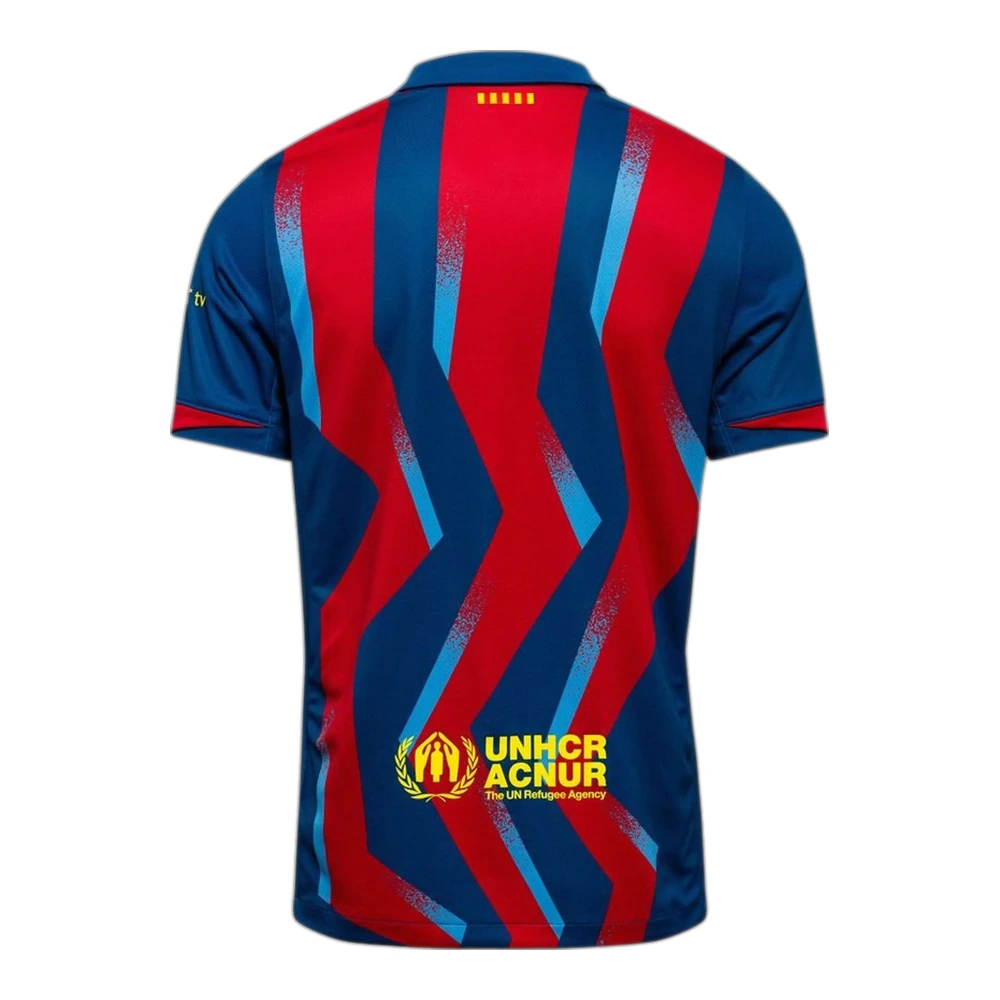
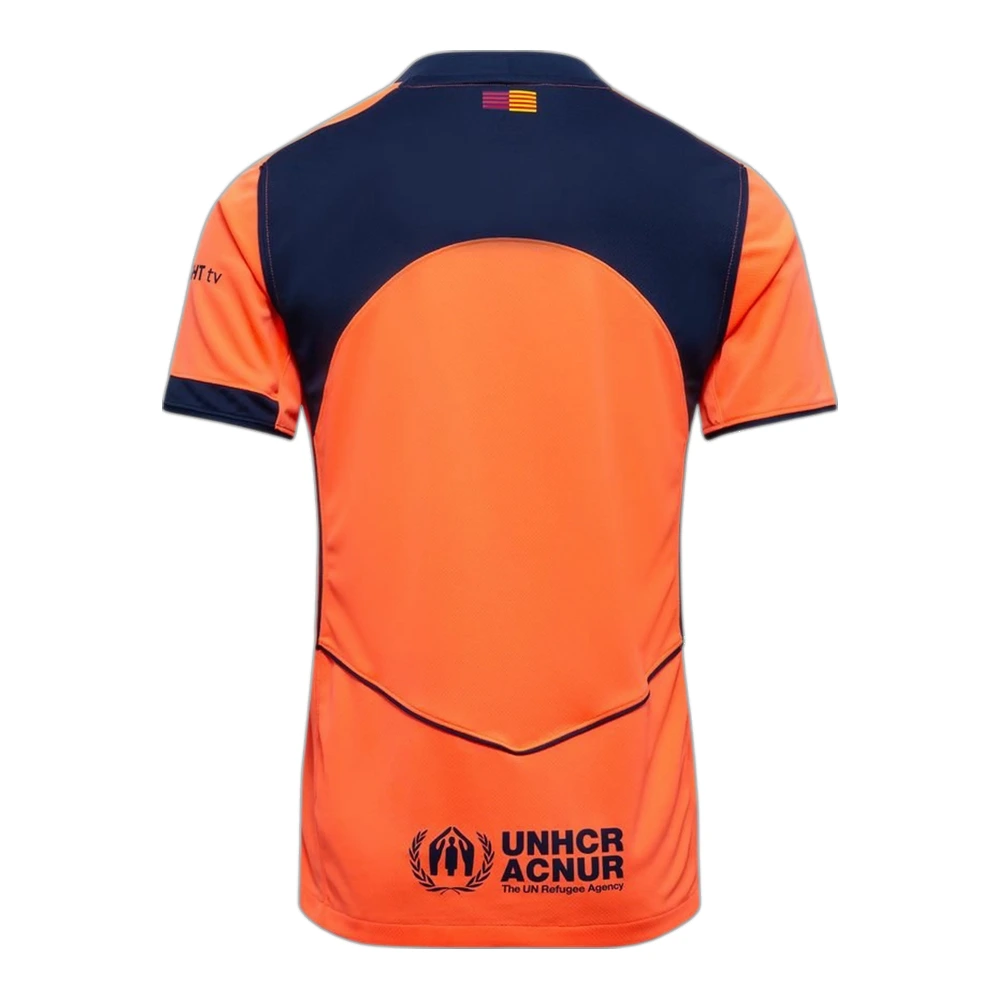
Inverse Third et Fourth du FC Barcelone 2025-26 : le orange est le Third

diff --git a/index.html b/index.html
@@ -2036,8 +2036,8 @@ const products = [
   { id:867, club:'Benfica', name:'Maillot Extérieur', season:'2026-27', league:'Liga Portugal', type:'standard', emoji:'👕', mainColor:'#FFFFFF', accentColor:'#E20B12', flocageColor:'#E20B12', frontImage:'images/benfica-ext-2627-1.webp', carouselImages:['images/benfica-ext-2627-1.webp','images/benfica-ext-2627-2.webp'] },
   { id:868, club:'Crystal Palace', name:'Maillot Extérieur', season:'2026-27', league:'Premier League', type:'standard', emoji:'👕', mainColor:'#111111', accentColor:'#1B458F', flocageColor:'#FFFFFF', frontImage:'images/crystalpalace-ext-2627-1.webp', carouselImages:['images/crystalpalace-ext-2627-1.webp','images/crystalpalace-ext-2627-2.webp'] },
   { id:869, club:'Juventus', name:'Maillot Extérieur', season:'2026-27', league:'Serie A', type:'standard', emoji:'👕', mainColor:'#F3C6D3', accentColor:'#000000', flocageColor:'#000000', frontImage:'images/juventus-ext-2627-1.webp', carouselImages:['images/juventus-ext-2627-1.webp','images/juventus-ext-2627-2.webp'] },
-  { id:870, club:'FC Barcelone', name:'Maillot Third', season:'2025-26', league:'Liga', type:'standard', emoji:'👕', mainColor:'#A50044', accentColor:'#004D98', flocageColor:'#FFD400', frontImage:'images/barca-3rd-2526-1.webp', carouselImages:['images/barca-3rd-2526-1.webp','images/barca-3rd-2526-2.webp'] },
-  { id:871, club:'FC Barcelone', name:'Maillot Fourth', season:'2025-26', league:'Liga', type:'standard', emoji:'👕', mainColor:'#FF6B4A', accentColor:'#1A1A2E', flocageColor:'#FFFFFF', frontImage:'images/barca-4th-2526-1.webp', carouselImages:['images/barca-4th-2526-1.webp','images/barca-4th-2526-2.webp'] },
+  { id:870, club:'FC Barcelone', name:'Maillot Third', season:'2025-26', league:'Liga', type:'standard', emoji:'👕', mainColor:'#FF6B4A', accentColor:'#1A1A2E', flocageColor:'#FFFFFF', frontImage:'images/barca-3rd-2526-1.webp', carouselImages:['images/barca-3rd-2526-1.webp','images/barca-3rd-2526-2.webp'] },
+  { id:871, club:'FC Barcelone', name:'Maillot Fourth', season:'2025-26', league:'Liga', type:'standard', emoji:'👕', mainColor:'#A50044', accentColor:'#004D98', flocageColor:'#FFD400', frontImage:'images/barca-4th-2526-1.webp', carouselImages:['images/barca-4th-2526-1.webp','images/barca-4th-2526-2.webp'] },
   { id:872, club:'Olympique Lyonnais', name:'Maillot Extérieur', season:'2025-26', league:'Ligue 1', type:'standard', emoji:'👕', mainColor:'#0F1E4D', accentColor:'#C8102E', flocageColor:'#FFFFFF', frontImage:'images/ol-ext-2526-1.webp', carouselImages:['images/ol-ext-2526-1.webp','images/ol-ext-2526-2.webp'] },
   { id:873, club:'Olympique Lyonnais', name:'Maillot Domicile', season:'2025-26', league:'Ligue 1', type:'standard', emoji:'👕', mainColor:'#FFFFFF', accentColor:'#1D3FB0', flocageColor:'#C8102E', frontImage:'images/ol-home-2526-1.webp', carouselImages:['images/ol-home-2526-1.webp','images/ol-home-2526-2.webp'] },
   { id:874, club:'Fulham', name:'Maillot Domicile', season:'2025-26', league:'Premier League', type:'standard', emoji:'👕', mainColor:'#FFFFFF', accentColor:'#111111', flocageColor:'#111111', frontImage:'images/fulham-home-2526-1.webp', carouselImages:['images/fulham-home-2526-1.webp','images/fulham-home-2526-2.webp'] },
